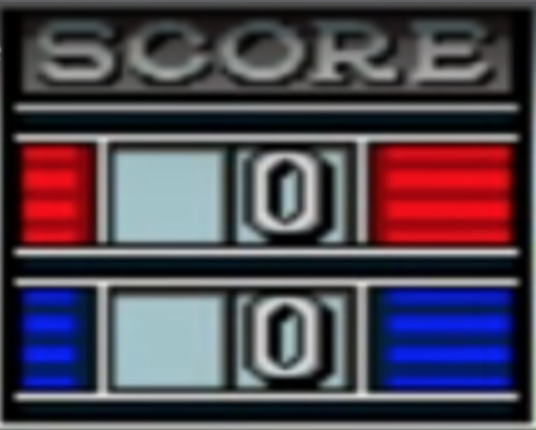
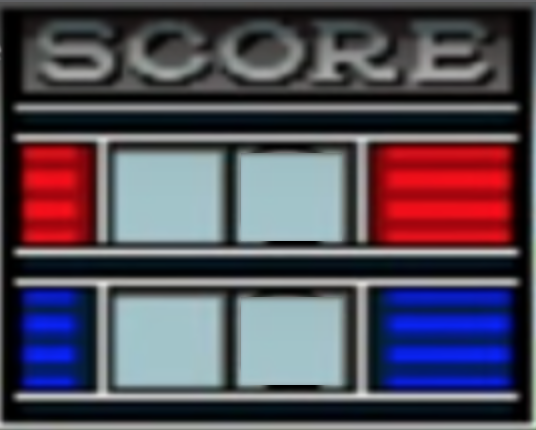
positions of all throw horseshoes

Changed region(s): [[0.4478, 0.3326, 0.6567, 0.5744], [0.4478, 0.6651, 0.6567, 0.907]]

diff --git a/main.js b/main.js
@@ -21,6 +21,7 @@ var gravity = -9;
 
 var view = mat4.create();
 var closeup_view = mat4.create();
+var overhead_view = mat4.create();
 var projection = mat4.create();
 var inverse_projection_view = mat4.create(); // used for screen to world coords
 
@@ -39,7 +40,7 @@ var start_menu = {
 var ui_state = { 
   "dirty": false,         // set to true to trigger a ui repaint
   "arc" : {
-    "active": true,
+    "active": false,
     "width": 0,
     "height": 0,
     "left": 0,
@@ -54,21 +55,21 @@ var ui_state = {
     }
   },
   "mini_view": {
-    "active": true,
+    "active": false,
     "width": 0,
     "height": 0,
     "left": 0,
     "top": 0,
   },
   "scoreboard": {
-    "active": true,
+    "active": false,
     "width": 0,
     "height": 0,
     "left": 0,
     "top": 0,
   },
   "end_of_round_score": {
-    "active": true,
+    "active": false,
     "width": 0,
     "height": 0,
     "left": 0,
@@ -104,6 +105,8 @@ var horseshoes = [
   { position: vec3.create(), velocity: vec3.create(), rotation: vec3.create() },
   { position: vec3.create(), velocity: vec3.create(), rotation: vec3.create() }
 ];
+
+var stake = { x: 0 , y: 0, z: -13 };
 
 var round_girl = {
   x: 0,
@@ -219,6 +222,15 @@ function init() {
   mat4.fromRotation(closeup_view, 1.2, [1,0,0]);
   mat4.translate(closeup_view, closeup_view, [0, -2.5, 24.3]);
   mat4.scale(closeup_view, closeup_view, [s,s,s*.9]);
+
+  // TODO(shaw): This doesn't seem right. The far stake is at 13 meters 
+  // the camera z being set to 13 should put it directly over the stake, but it takes double to 
+  // put it there. It seems to be off by about a factor of 2.
+
+  // set overhead view matrix
+  mat4.fromRotation(overhead_view, Math.PI/2, [1,0,0]);
+  mat4.translate(overhead_view, overhead_view, [0, -4.5, 26]);
+  mat4.scale(overhead_view, overhead_view, [s,s,s*.9]);
 
   // set inverse of projection * view
   mat4.mul(inverse_projection_view, projection, view);
@@ -684,8 +696,8 @@ function init_ui() {
   mini_view.top = 0;
 
   // scoreboard
-  scoreboard.width = 0.25 * ui_canvas.width;
-  scoreboard.height = 0.25 * ui_canvas.height;
+  scoreboard.width = 0.213 * ui_canvas.width;
+  scoreboard.height = 0.297 * ui_canvas.height;
   scoreboard.left = 0;
   scoreboard.top = 0;
 
@@ -829,6 +841,28 @@ function debug_move_camera(dt) {
     mat4.rotateX(view, view, 0.4*dt);
   else if (input.key.e.is_down)
     mat4.rotateX(view, view, -0.4*dt);
+
+
+  if (input.key.w.is_down)
+    mat4.translate(closeup_view, closeup_view, [0, 0, speed*dt]);
+  else if (input.key.s.is_down)
+    mat4.translate(closeup_view, closeup_view, [0, 0, -speed*dt]);
+
+  if (input.key.a.is_down)
+    mat4.translate(closeup_view, closeup_view, [speed*dt, 0, 0]);
+  else if (input.key.d.is_down)
+    mat4.translate(closeup_view, closeup_view, [-speed*dt, 0, 0]);
+
+  if (input.key.up.is_down)
+    mat4.translate(closeup_view, closeup_view, [0, -speed*dt, 0]);
+  else if (input.key.down.is_down)
+    mat4.translate(closeup_view, closeup_view, [0, speed*dt, 0]);
+
+  if (input.key.q.is_down) 
+    mat4.rotateX(closeup_view, closeup_view, 0.4*dt);
+  else if (input.key.e.is_down)
+    mat4.rotateX(closeup_view, closeup_view, -0.4*dt);
+
 }
 
 var count = 0;
@@ -838,7 +872,8 @@ function update(dt) {
     return
   }
 
-  //if (count++ > 1000) quit = true;
+  count++;
+  //if (count > 1000) quit = true;
 
   debug_move_camera(dt);
 
@@ -879,7 +914,6 @@ function update(dt) {
 function draw() {
   // TODO(shaw): clearRect if backgrounds get moved to a new layer
 
-  var shoe = horseshoes[active_horseshoe];
   var switch_to_closeup_height = 1;
   var view_matrix = view;
 
@@ -929,13 +963,14 @@ function draw() {
 
   }
 
-  // draw horseshoe
-  if (active_horseshoe >= 0) {
+  // draw horseshoes
+  for (var i=0; i <= active_horseshoe; i++) {
+    var shoe = horseshoes[i];
     var coords = world_to_screen_coords(shoe.position, view_matrix);
-    //console.log("after: ", coords);
     //if (count % 16 == 0) 
       //console.log("shoe position: ", shoe.position[0], ", ", shoe.position[1], ", ", shoe.position[2]);
-    ctx.fillStyle = "#FF0000";
+    
+    ctx.fillStyle = i < 2 ? "#FF0000" : "#00FF00";
     ctx.fillRect(coords[0], coords[1], 10, 10);
   }
 
@@ -965,13 +1000,33 @@ function draw_ui() {
       mini_view.left, mini_view.top, 
       mini_view.width, mini_view.height);
 
-    for (var i=0; i<active_horseshoe; i++) {
+    for (var i=0; i <= active_horseshoe; i++) {
       // draw horseshoe
+      var dist_x = horseshoes[i].position[0] - stake.x;
+      var dist_z = horseshoes[i].position[2] - stake.z;
+      var dist = Math.sqrt(dist_x*dist_x + dist_z*dist_z);
+
+      if (dist > 1) continue;
+
+
+      var ndc_coords = world_to_ndc(horseshoes[i].position, overhead_view);
+      var off_x = (ndc_coords[0] + 1) * 0.5 * mini_view.width;
+      var off_y = (1 - (ndc_coords[1] + 1) * 0.5) * mini_view.height;
+
+
+      var x = mini_view.left + off_x;
+      var y = mini_view.top + off_y;
+
+      console.log({ off_x, off_y, x, y })
+
+      ui_ctx.fillStyle = i < 2 ? "#FF0000" : "#00FF00";
+      ui_ctx.fillRect(x, y, 5, 5);
+
     }
   }
 
   if (scoreboard.active) {
-    ui_ctx.drawImage(img_scoreboard, 
+    ui_ctx.drawImage(img_scoreboard,
       scoreboard.left, scoreboard.top, 
       scoreboard.width, scoreboard.height);
 
@@ -1088,6 +1143,8 @@ function update_new_round(dt) {
     players[0].active = true;
     players[1].active = false;
     round_girl.x = -round_girl.width;
+    ui_state.arc.active = true;
+    ui_state.dirty = true;
     turn_state = game_states.HORIZONTAL_POSITION;
   }
 }
@@ -1116,7 +1173,7 @@ function update_angle_select(dt) {
 
     // TODO(shaw): calculate throwing velocity based on power and angle
     var velocity = horseshoes[active_horseshoe].velocity;
-    vec3.set(velocity, -0.25, 6, -8.2);
+    vec3.set(velocity, -0.25, 6, -8.7);
 
     turn_state = game_states.THROWING;
     return;
@@ -1138,10 +1195,7 @@ function update_angle_select(dt) {
 
 }
 
-
-function world_to_screen_coords(v3, view_matrix=view) {
-  var canvas_coords = vec2.create();
-
+function world_to_ndc(v3, view_matrix=view) {
   // world to camera space coords
   var coords = vec4.fromValues(v3[0], v3[1], v3[2], 1);
   vec4.transformMat4(coords, coords, view_matrix);
@@ -1154,6 +1208,12 @@ function world_to_screen_coords(v3, view_matrix=view) {
     vec4.div(coords, coords, [coords[3], coords[3], coords[3], 1]);
   }
 
+  return coords;
+}
+
+function world_to_screen_coords(v3, view_matrix=view) {
+  var coords = world_to_ndc(v3, view_matrix);
+
   // temp hack to notify outside clip
   if (coords[0] < -1 || coords[0] > 1 ||
       coords[1] < -1 || coords[1] > 1 ||
@@ -1161,6 +1221,8 @@ function world_to_screen_coords(v3, view_matrix=view) {
   {
     return [-1,-1];
   }
+
+  var canvas_coords = vec2.create();
 
   // viewport transform
   canvas_coords[0] = (coords[0] + 1) * 0.5 * canvas.width;
@@ -1210,6 +1272,8 @@ function update_throwing(dt) {
   if (!closeup && shoe.position[1] <= switch_to_closeup_height && shoe.velocity[1] <= 0) {
     closeup = true;
     ui_state.arc.active = false;
+    ui_state.mini_view.active = false;
+    ui_state.scoreboard.active = false;
     ui_state.dirty = true;
   }
 
@@ -1229,7 +1293,7 @@ function update_scoring(dt) {
   scoring_timer -= dt;
 
   // after 1 second
-  if (scoring_timer <= scoring_delay-1 && !ui_state.arc.active) {
+  if (scoring_timer <= scoring_delay-1 && !ui_state.mini_view.active) {
     ui_state.mini_view.active = true;
     ui_state.dirty = true;
   }
@@ -1240,6 +1304,7 @@ function update_scoring(dt) {
       ui_arc_reset();
       closeup = false;
       ui_state.arc.active = true;
+      ui_state.scoreboard.active = true;
       ui_state.dirty = true;
 
       var player = active_player();
@@ -1247,6 +1312,9 @@ function update_scoring(dt) {
       players[next_player_id].active = true;
       player.active = false;
       reset_player_positions();
+
+      active_horseshoe++;
+
       turn_state = game_states.HORIZONTAL_POSITION;
       return;
     }
